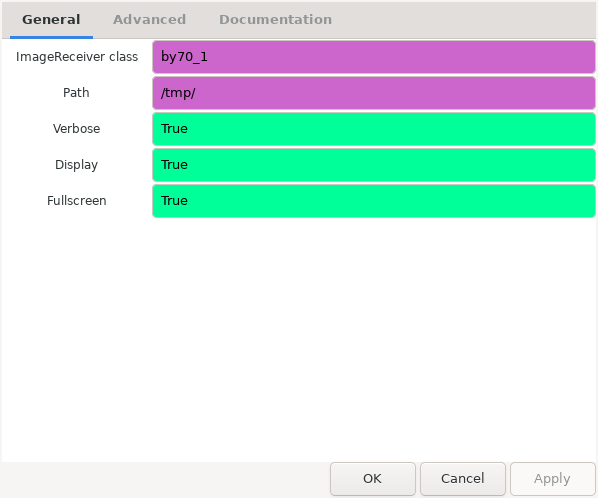
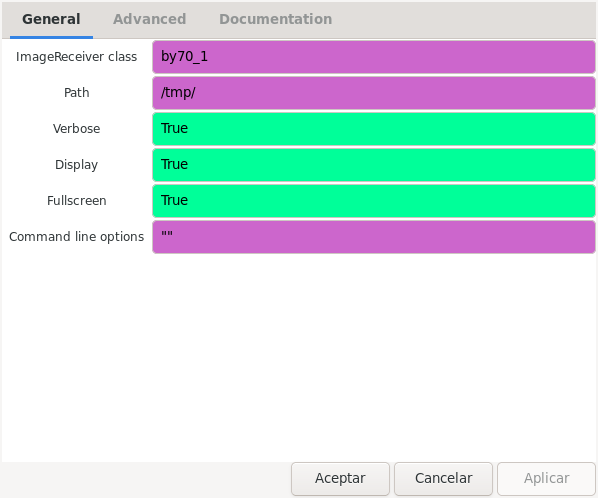
Document command line options for blocks
This closes #126

diff --git a/docs/source/satellite_decoder.rst b/docs/source/satellite_decoder.rst
@@ -25,9 +25,10 @@ Message Debug block. This example can be found in gr-satellites in
 The figure below shows the options for the Satellite decoder block. It is
 possible to specify the satellite to use in the same ways as for the
 ``gr_satellites`` command line tool (see :ref:`Specifying the satellite`). The
-method to specify the satellite is chosen in the "Satellite definition"
-dropdown menu. The sample rate needs to be entered in the "Sample Rate" field,
-and the "IQ input" field selects real or IQ input.
+method to specify the satellite is chosen in the *Satellite definition*
+dropdown menu. The sample rate needs to be entered in the *Sample Rate* field,
+and the *IQ input* field selects real or IQ input. The *Command line options*
+field is described below.
     
 .. figure:: images/satellite_decoder_options.png
     :alt: Options of Satellite decoder
@@ -54,5 +55,19 @@ protocols might be completely handled inside the GNU Radio flowgraph, provided
 there is a suitable implementation of these protocols. Additionally, it is
 possible to interface the decoder to external tools with default GNU Radio
 blocks, by using TCP sockets or ZeroMQ.
+
+.. _Command line options:
+
+Command line options
+^^^^^^^^^^^^^^^^^^^^
+
+The satellite decoder block allows entering the same kind of command line
+options supported by the ``gr_satellites`` command line tool into the *Command
+line options* parameter of the block. The set of options to use needs to be
+specified as a Python script. To see the available optioins, it is possible to
+use ``"--help"`` as the options, just as one would do when using a command line
+tool. When the flowgraph is run, it will print out the allowable options and
+stop. In the same manner, if invalid options are specified, when the flowgraph
+is run it will print the correct usage and stop.
 
 .. _gr-gpredict-doppler: https://github.com/ghostop14/gr-gpredict-doppler

diff --git a/docs/source/components.rst b/docs/source/components.rst
@@ -30,6 +30,11 @@ pass their output to the input of the next step. These are the following:
 * **Data sinks**. Data sinks are the consumers of packets. They might store
   them, send them to another software, or parse telemetry values.
 
+All the component blocks support :ref:`Command line options` in the same way as
+the satellite decoder block. The set of available options for each component
+block is different. It is possible to use the ``"--help"`` as the options of a
+particular block in order to print out the available options for that block.
+  
 Below, the main component blocks in each category are described.
 
 .. _Data sources:

diff --git a/CHANGELOG.md b/CHANGELOG.md
@@ -13,6 +13,7 @@ and this project adheres to [Semantic Versioning](https://semver.org/spec/v2.0.0
 - Note about volk_profile in the documentation
 - Missing .yml grc file for LilacSat-1 deframer
 - Support for BY02
+- Command line options for satellite decoder block and components
 
 ### Changed
 - Do not use DC-block in AFSK demodulator
